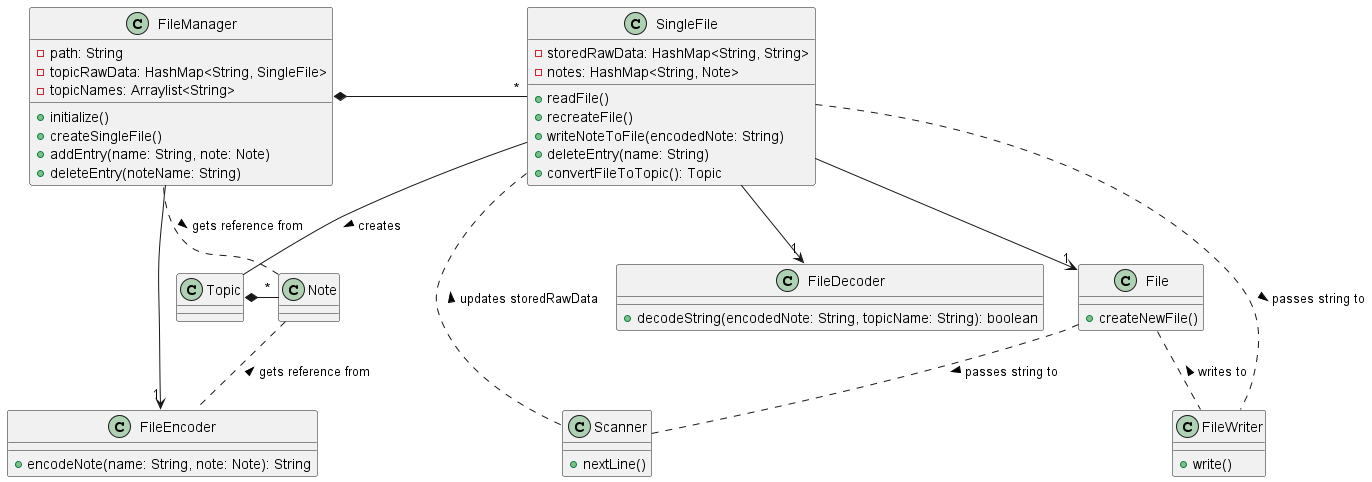
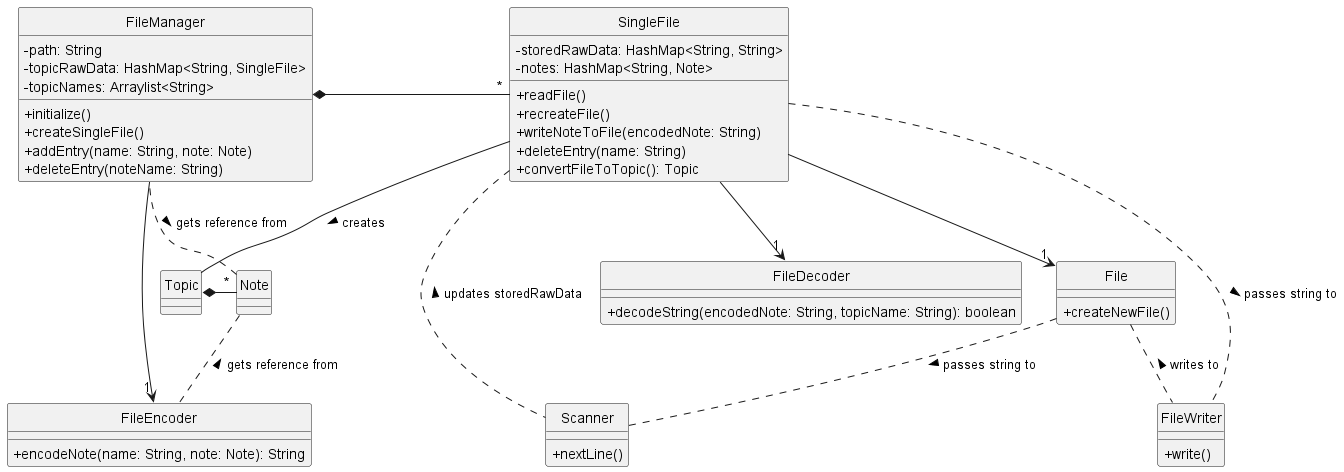
Add: implementation text for export function
Fix: UML diagram to use proper format

diff --git a/docs/DeveloperGuide.md b/docs/DeveloperGuide.md
@@ -114,6 +114,24 @@ Given below is an example usage of how the filter mechanism behaves at each step
 > the `topic` field to be `null`. If the `topic` field is filled with a valid topic name, the `Parser` will instantiate
 > a new `FilterCommand` using its constructor.
 
+### Export feature
+#### Current implementation
+The export function is supported by a singleton object, `Buffer`. 
+Whenever a `filter` or `topo` command is called, the method
+within the `Buffer` object, `updateBuffer` would be called which
+replaces the `CS2040CFile` objects stored within the buffer with the
+output `CS2040CFile` objects being output from the `filter` 
+command.
+
+When an `export` command is then called, a `ExportCommand` 
+object is instantiated. The `ExportCommand` object extends
+`Command` with an overridden `execute()` method. When the 
+`execute()` method is called, the `exportBuffer` method in the 
+`Buffer` is called. This copies all the `CS2040CFile` stored in
+the buffer to the export folder stored at `.\\export` and opens 
+the folder by using the default file explorer of the system.
+> Take note that this does not work for some Operating Systems
+> without a file explorer
 
 ## Product scope
 ### Target user profile
